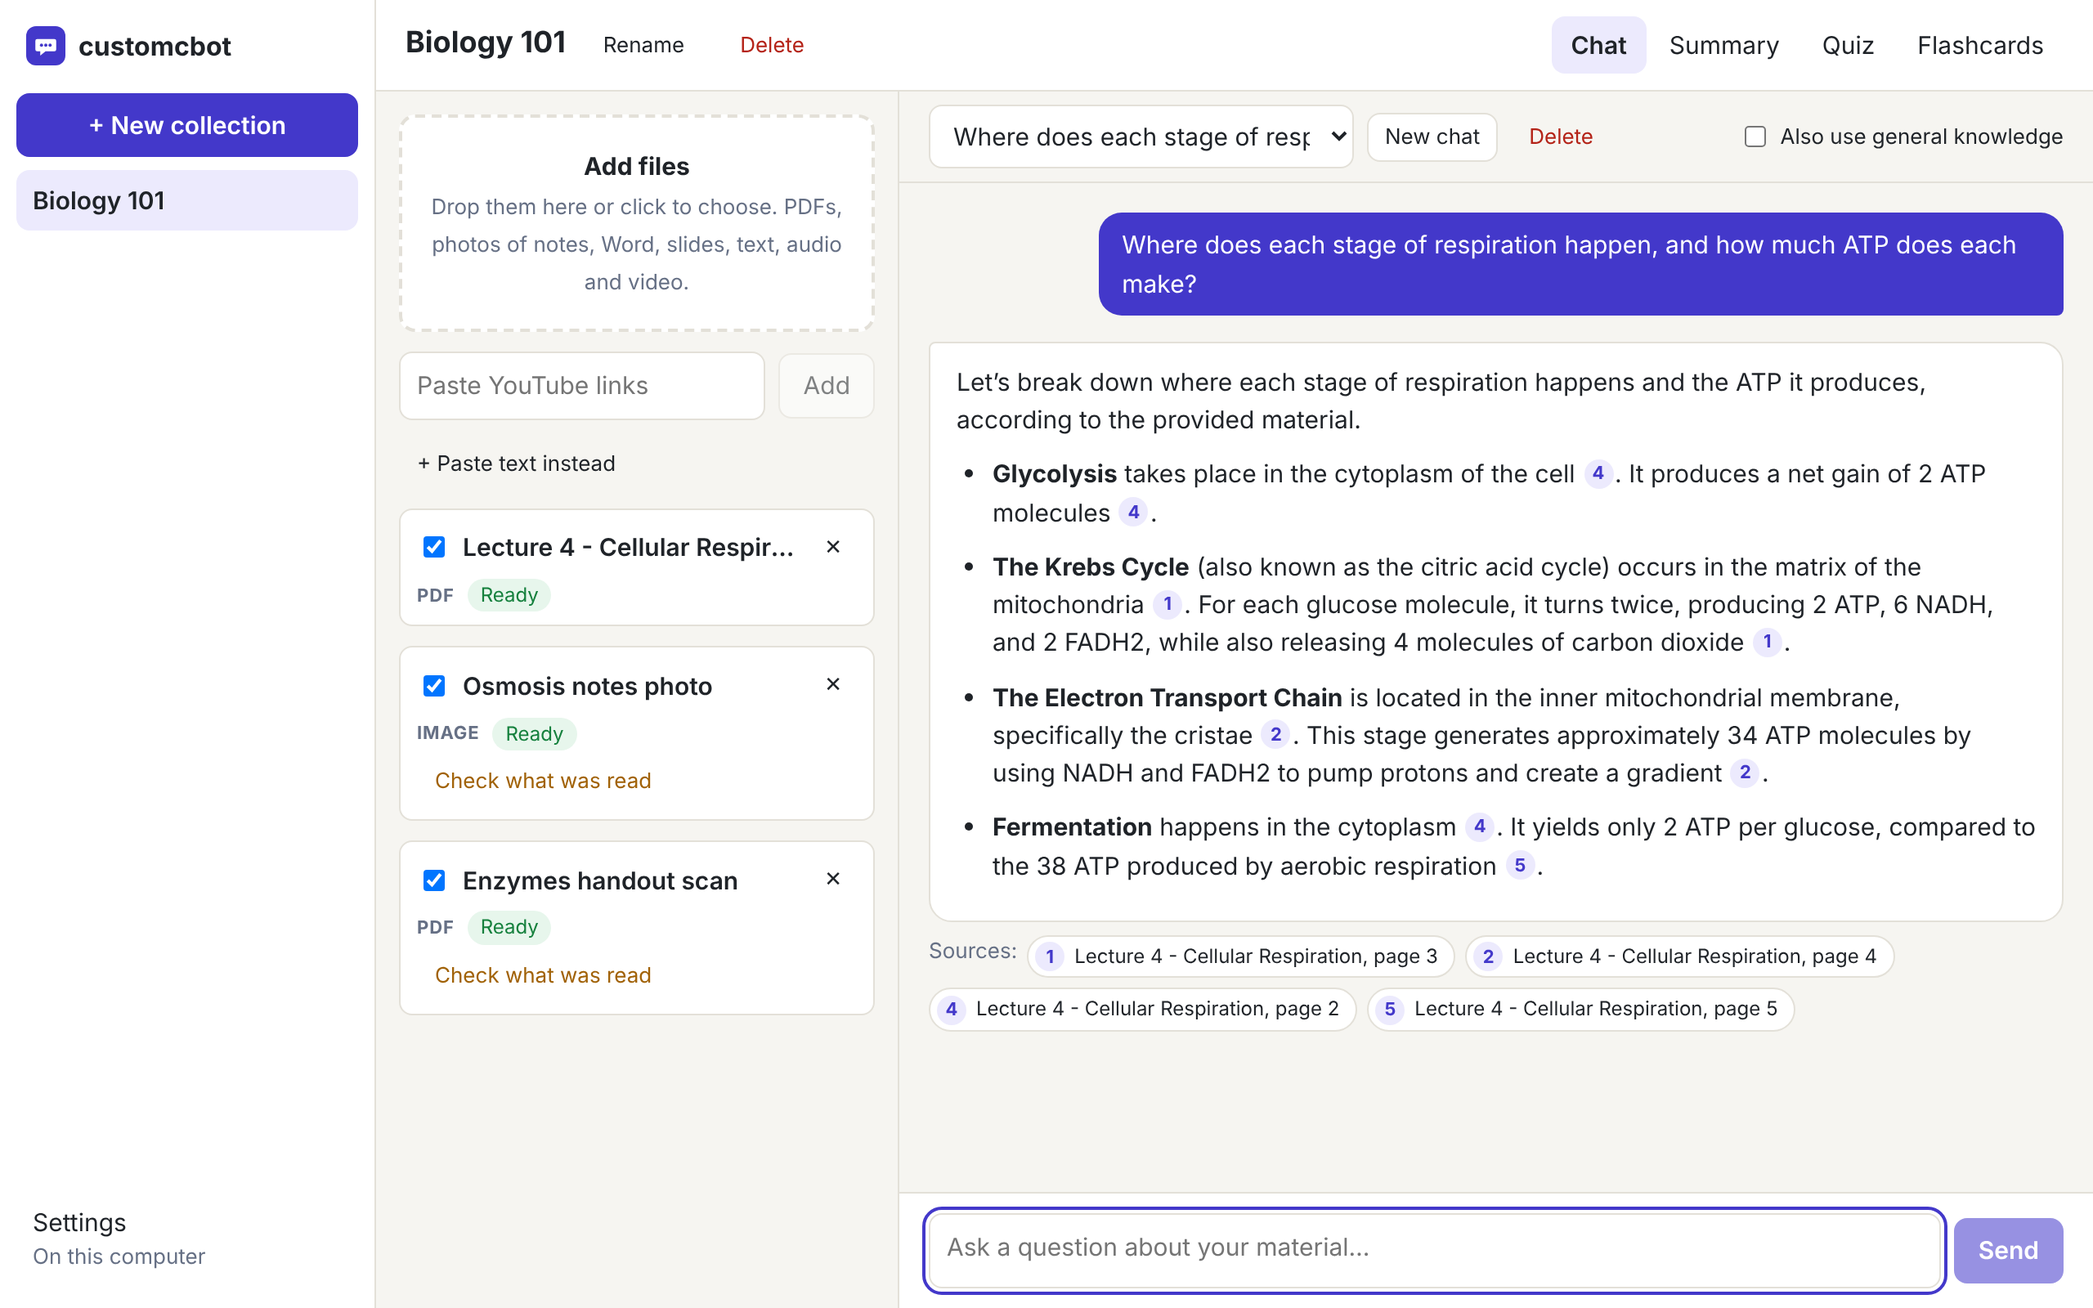
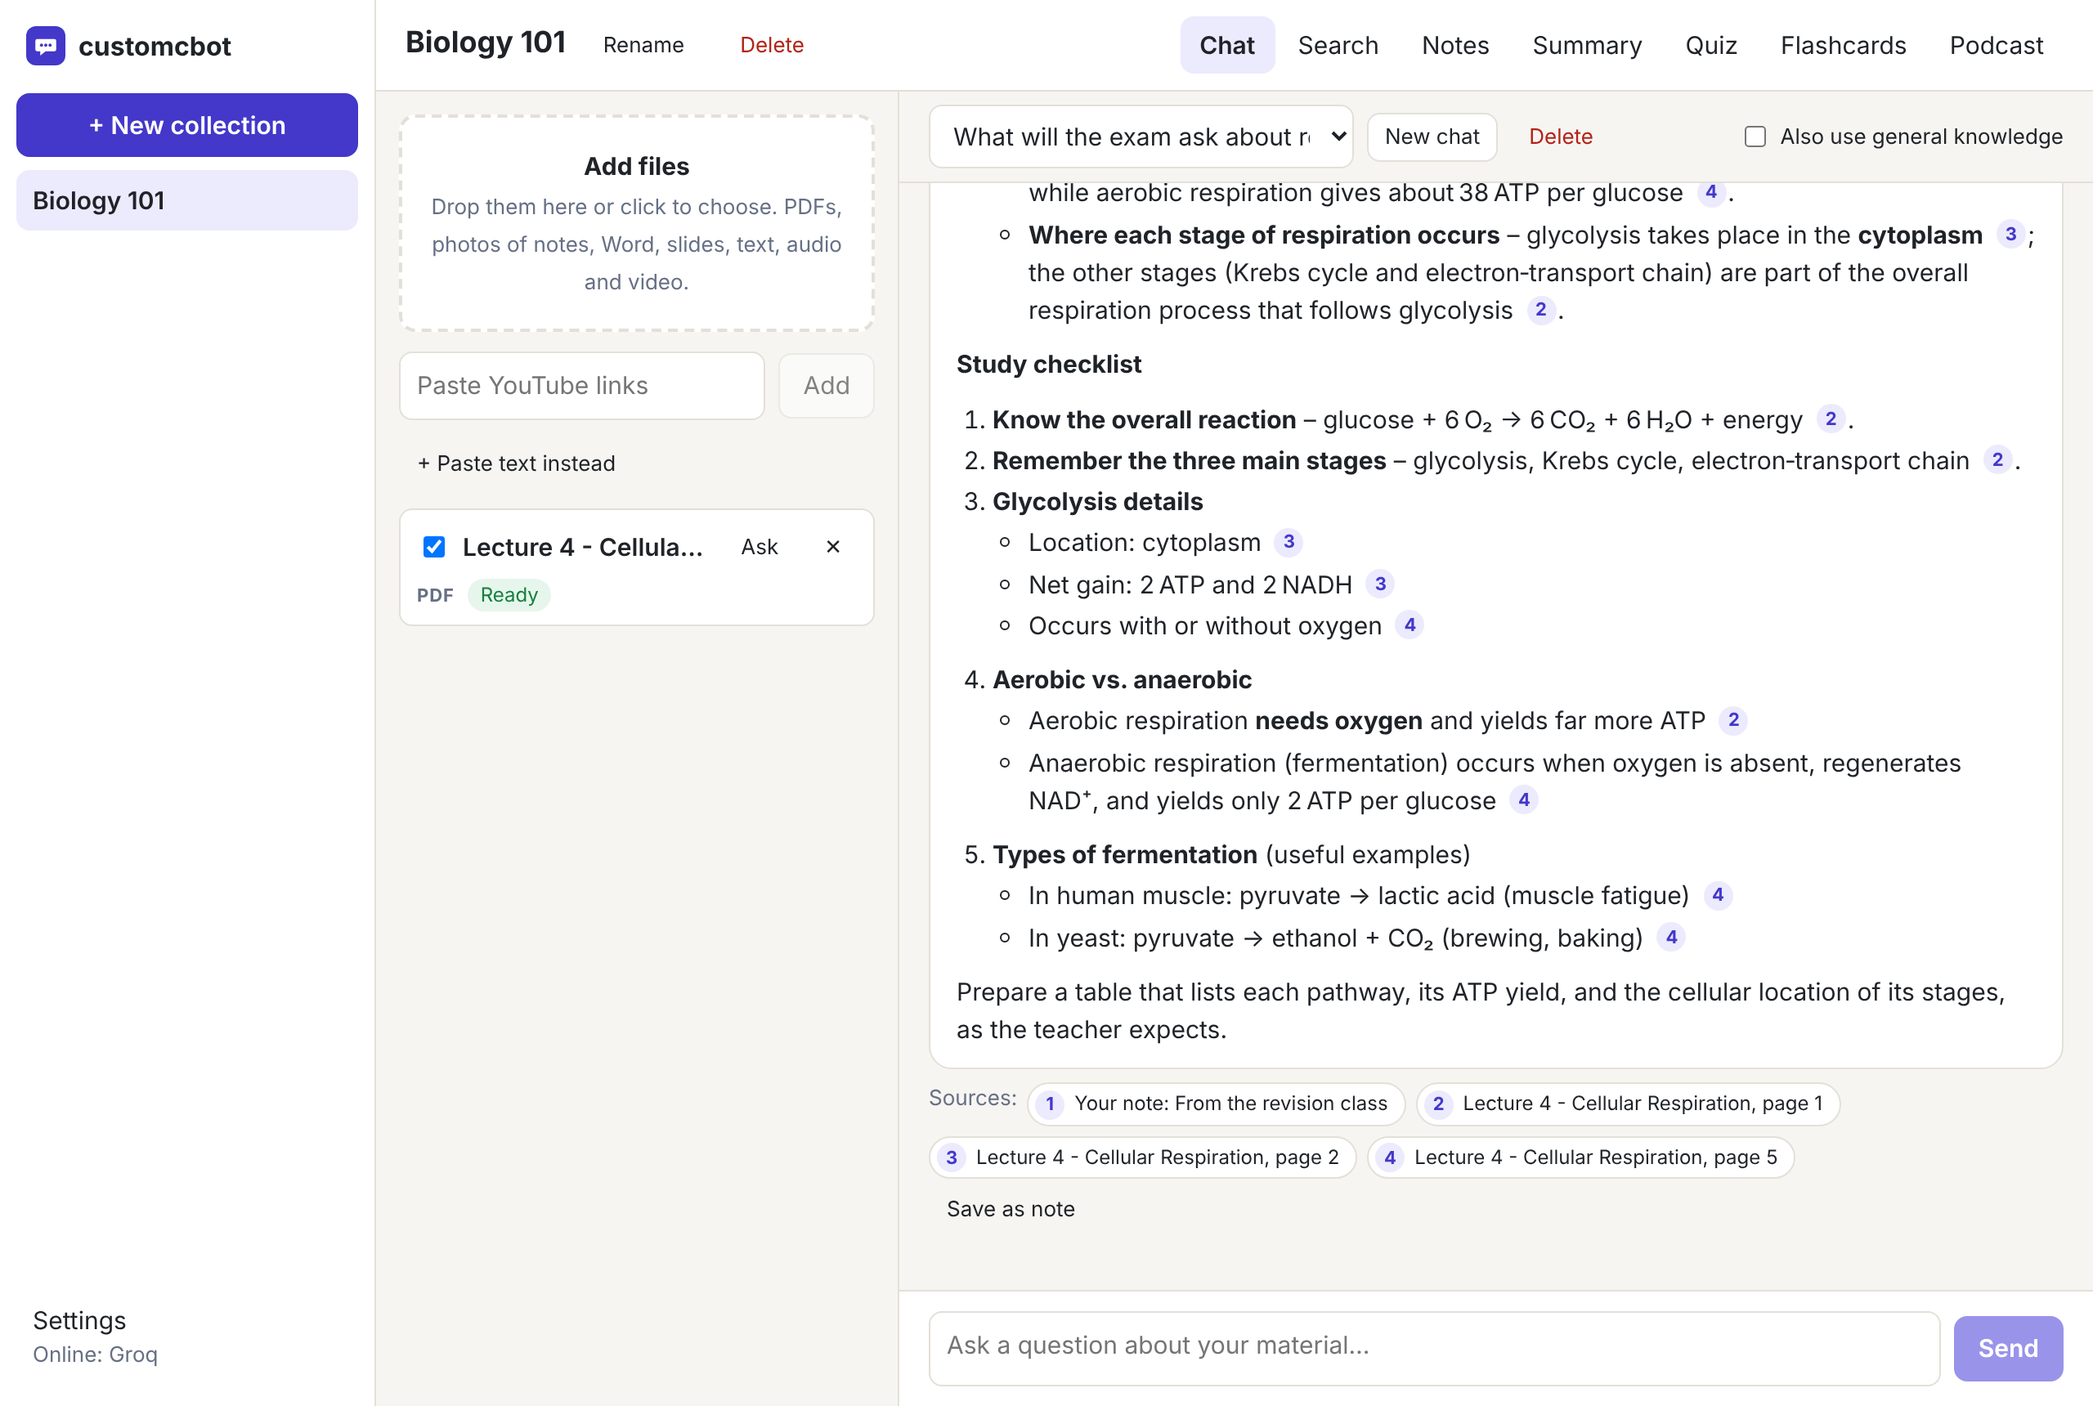
Document the new features, and add a way to recover a forgotten password
- README: the new features, fresh screenshots (chat, notes, a task
  result, Ask in depth, a podcast, services and models), privacy notes
  for podcasts, keys and the password, and credit to open-notebook.
- User guide: saving answers, asking about one source, the Search, Notes
  and Podcast tabs, tasks, several services with a model per kind of
  work, language and password.
- docs/ARCHITECTURE.md: how the layers map to open-notebook's and what is
  deliberately different.
- `--reset-password` removes a forgotten password; the data is kept.

Claude-Session: https://claude.ai/code/session_01VvAVspnGAJoobRY5boK8Ap

diff --git a/src/customcbot/cli.py b/src/customcbot/cli.py
@@ -34,6 +34,9 @@ def main() -> None:
     parser.add_argument("--port", type=int, default=8765)
     parser.add_argument("--no-browser", action="store_true", help="do not open the browser")
     parser.add_argument("--version", action="version", version=__version__)
+    parser.add_argument(
+        "--reset-password", action="store_true", help="remove the password set in Settings, then start"
+    )
     args = parser.parse_args()
 
     import uvicorn
@@ -41,6 +44,10 @@ def main() -> None:
     from .api.main import create_app
 
     app = create_app()
+    if args.reset_password:
+        # For a forgotten password. Whoever can start the app on this computer owns the data anyway.
+        config.set_many({"password_hash": None})
+        print("\n  The password has been removed.")
     port = _free_port(args.host, args.port)
     shown_host = "localhost" if args.host in ("127.0.0.1", "0.0.0.0") else args.host
     url = f"http://{shown_host}:{port}"

diff --git a/tests/test_auth.py b/tests/test_auth.py
@@ -83,3 +83,18 @@ def test_a_stolen_cookie_from_an_old_password_is_useless(client):
     old = auth.session_token()
     set_password(client, "second-one", current="first-one")
     assert not auth.signed_in(old) and auth.signed_in(auth.session_token())
+
+
+def test_a_forgotten_password_can_be_removed_from_the_command_line(client, monkeypatch):
+    import sys
+
+    import uvicorn
+
+    from customcbot import cli
+
+    set_password(client, "long-forgotten")
+    assert auth.required()
+    monkeypatch.setattr(uvicorn, "run", lambda *args, **kwargs: None)  # do not actually serve
+    monkeypatch.setattr(sys, "argv", ["customcbot", "--reset-password", "--no-browser"])
+    cli.main()
+    assert not auth.required()

diff --git a/docs/GUIDE.md b/docs/GUIDE.md
@@ -160,6 +160,24 @@ Open the **Chat** tab, type your question in the box at the bottom, and press En
 
 The AI can still make mistakes. For anything important, open the citation and check.
 
+### Keep an answer, or ask about one source
+
+- **Save as note** under an answer copies it into the **Notes** tab, titled with your question.
+- **Ask** next to a source on the left opens a chat that looks only in that source. A short source is read whole, so nothing in it is missed.
+
+### Search tab
+
+- **Find passages** looks through your sources, your notes and the results in the Summary tab. Choose **Words and meaning**, **Exact words only** or **Similar meaning only**, and tick what to look in. Click a result to read the passage.
+- **Ask in depth** is for a question that needs more than one passage, such as a comparison. The AI plans a few searches, takes notes from each (open a step to read them), then writes one answer with numbered sources. It is slower than Chat. With the Lite local model it does a single search.
+
+![An answer built from several searches](ask.png)
+
+### Notes tab
+
+**New note** opens an editor; Markdown works (`# heading`, `- list`, `**bold**`). A note without a title is named after its first line. Notes are searched together with your sources, so answers in Chat can use them and cite them as "Your note: …". Answers and results you saved are marked **saved answer**.
+
+![Notes](notes.png)
+
 ## 6. Summaries, quizzes and flashcards
 
 All three are made from the sources ticked on the left. They run in the background, so you can keep using the other tabs while you wait.
@@ -167,9 +185,10 @@ All three are made from the sources ticked on the left. They run in the backgrou
 ### Summary tab
 
 - **Write overview** writes one study guide covering all your sources: an overview, key ideas, important terms and questions to test yourself.
-- Under **By source**, **Summarise** writes a study guide for a single source. **Show study guide** opens it again later.
+- Under **By source**, pick a task for a source and press **Make**. Five tasks are ready: **Study guide**, **Key points**, **Glossary**, **Revision questions** and **Explain it simply**. Click a result's name to open it. **Save as note** copies it into your notes; **Delete** removes it.
+- **Edit tasks** lets you change the wording of a task, put a built-in one back to its original wording, add your own (for example "List every date in order with what happened"), or tick **Do this by itself for every new source**.
 
-![A study guide](summary.png)
+![A glossary made from one source](summary.png)
 
 ### Quiz tab
 
@@ -192,6 +211,20 @@ Cards you know come back after longer and longer gaps. Cards you miss come back 
 
 ![A flashcard](flashcards.png)
 
+### Podcast tab
+
+Turns your material into a spoken episode you can listen to.
+
+1. Choose a **Kind of episode**: **Study recap** (two voices talk through the key ideas), **Quick overview** (one voice, shorter) or **Exam drill** (questions and answers).
+2. Optionally type what to focus on, then press **Make episode**.
+3. When it is ready, press play, **Download MP3**, or **Read the script**.
+
+The first episode downloads the voices (about 350 MB, once). After that an episode of about four minutes takes one to two minutes with an online model, and around five minutes with a local model on a laptop. The script is written by the AI you chose; the voices run on your computer, so no audio is sent anywhere.
+
+**Kinds and voices** lets you change who speaks (one to four speakers, each with a name, a voice and a short description) and what an episode should be like. The English voices are the best tested; Spanish, French, Hindi, Italian and Portuguese voices are included.
+
+![A podcast episode with its script](podcast.png)
+
 ## 7. Change the model or switch between local and online
 
 Click **Settings** at the bottom left. The line under it always shows where answers currently come from.
@@ -201,6 +234,17 @@ Click **Settings** at the bottom left. The line under it always shows where answ
 - **Speech-to-text quality:** Fastest, Balanced or Most accurate, for videos without captions and audio files.
 
 Your collections and sources are unaffected by switching.
+
+### Several services, and a model for each kind of work
+
+**Services and models** in Settings is for when one model is not enough. Under **Which model does what** you can give different work to different models: answering questions; summaries, quizzes and flashcards; reading handwriting and scanned pages. A common choice is a fast model for chat and a larger one for quizzes, or an online model that reads images next to a local one for everything else. **Add a service** saves another service and its key; **Add a model** lists what that service offers and tests the one you pick before saving it. Keys are stored encrypted and are never shown again.
+
+![A model for each kind of work](models.png)
+
+### Language and password
+
+- **Language of the interface:** English, Español, Français, Português, हिन्दी or 中文. The translations were made by machine and have not been checked by native speakers. What the AI writes follows the language of your material and your questions, not this setting.
+- **Password:** not needed while only this computer can open the app. If you start it for other devices (`--host 0.0.0.0`), press **Set a password**; every device then has to sign in. If you forget it, stop the app and start it once with `--reset-password`.
 
 ## 8. Your data: where it is, backup, removal
 

diff --git a/README.md b/README.md
@@ -19,13 +19,21 @@ You choose on first start and can switch at any time.
 - **Quizzes.** Multiple choice or written answers, drawn from across your material, with explanations.
 - **Flashcards.** Written for you, with spaced repetition so the cards you miss come back sooner.
 - **Collections.** Keep each subject or project separate: 5 PDFs and 10 lectures for one course, a manual and some notes for another.
+- **Notes.** Write your own, or keep an answer with "Save as note". Answers can use and cite your notes.
+- **Tasks on a source.** Key points, a glossary, revision questions or a plain-language explanation of any source, or tasks you write yourself.
+- **Search and Ask in depth.** Find passages by exact words or by meaning. For a harder question, the AI plans several searches, takes notes from each and writes one answer.
+- **Podcasts.** Turn your material into a spoken episode with one to four voices, to listen to instead of reading. The voices run on your computer.
+- **Several AI services at once.** Use one model for chat, another for quizzes and summaries, and a third to read handwriting.
+- **Six interface languages**, and an optional password if you open the app to other devices.
 
 It is built for studying but works for anything you want to ask questions about: manuals, reports, meeting recordings, research papers.
 
 | | |
 |---|---|
 | ![A quiz question with its explanation](docs/quiz.png) | ![A flashcard](docs/flashcards.png) |
-| ![A study guide written from a collection](docs/summary.png) | ![The text read from a photographed note](docs/extracted-text.png) |
+| ![A glossary made from one source](docs/summary.png) | ![The text read from a photographed note](docs/extracted-text.png) |
+| ![An answer built from several searches](docs/ask.png) | ![A podcast episode with its script](docs/podcast.png) |
+| ![Notes, including a saved answer](docs/notes.png) | ![A model for each kind of work](docs/models.png) |
 
 ## Get started
 
@@ -127,6 +135,10 @@ Small models running on a home computer are slower and less capable than large o
 
 **With an online service**, the question you ask and the passages found for it are also sent to the service you chose, each time you chat or make a summary, quiz or flashcards. Your key is stored in the data folder on your computer and is never shown again in the browser.
 
+**Podcast voices** run on your computer in both cases: the script is written by the AI you chose, but the speech is made locally and no audio is sent anywhere.
+
+**Saved keys** are encrypted in the data folder. **A password** is optional; set one in Settings if other devices can reach the app.
+
 There is no account and no tracking in customcbot itself. The data folder is shown in the terminal when the app starts. Delete that folder to remove everything.
 
 ## Troubleshooting
@@ -140,6 +152,8 @@ There is no account and no tracking in customcbot itself. The data folder is sho
 | "The free allowance ... is used up for now" | Wait a while, pick another model in Settings, or switch to a local model. |
 | A YouTube link fails | Check the video is public. If you are on a VPN, turn it off and press "Try again". |
 | `start.sh` says "permission denied" | Run `chmod +x start.sh` once, then try again. |
+| "The voices could not be set up" | The first podcast downloads the voices (about 350 MB). Check your connection and press Make episode again. |
+| You forgot the password | Stop the app and start it once with `--reset-password` (for example `./start.sh --reset-password`). That removes the password; your data is kept. |
 
 ## How it works
 
@@ -157,8 +171,11 @@ Summaries, quizzes and flashcards use the same passages.
 | Language and vision model | [Ollama](https://ollama.com) running Gemma 3, or any service that speaks the OpenAI chat API |
 | Search by meaning | [fastembed](https://github.com/qdrant/fastembed) with a multilingual MiniLM model, on the CPU |
 | Storage and keyword search | One SQLite file |
-| PDFs, OCR, speech | pypdfium2, RapidOCR, faster-whisper |
+| PDFs, OCR, speech to text | pypdfium2, RapidOCR, faster-whisper |
+| Podcast voices | [Kokoro](https://huggingface.co/hexgrad/Kokoro-82M) through kokoro-onnx, on the CPU |
 | Server and interface | FastAPI; Preact with no build step |
+
+The way the code is organised (routes, domain models, numbered migrations, model provisioning per job, workflows, background commands, prompt templates) follows [open-notebook](https://github.com/lfnovo/open-notebook), as do notes, transformations, Ask and podcasts. customcbot rebuilds those ideas on a lighter stack so that it starts with one double-click and runs on a modest computer; no code was copied. See [docs/ARCHITECTURE.md](docs/ARCHITECTURE.md).
 
 ## For developers
 
@@ -212,4 +229,4 @@ customcbot is a single-user app with no login. Do not put it on the public inter
 
 ## Licence
 
-MIT. See [LICENSE](LICENSE). Bundled browser libraries are listed in [`src/customcbot/web/vendor/README.md`](src/customcbot/web/vendor/README.md).
+MIT. See [LICENSE](LICENSE). The podcast voices depend on espeak-ng, which is installed as a separate package under the GPL-3.0 licence. Bundled browser libraries are listed in [`src/customcbot/web/vendor/README.md`](src/customcbot/web/vendor/README.md).

diff --git a/docs/ARCHITECTURE.md b/docs/ARCHITECTURE.md
@@ -1,0 +1,59 @@
+# How customcbot is built
+
+The layers follow [open-notebook](https://github.com/lfnovo/open-notebook). The stack is lighter, so that the app starts with one double-click and runs on a modest computer.
+
+| open-notebook | customcbot |
+|---|---|
+| Next.js frontend | `web/`: Preact with no build step, served by the same process |
+| FastAPI app, one router per resource | the same: `api/main.py`, `api/routers/` |
+| SurrealDB (documents, full-text and vector search) | one SQLite file: tables, FTS5 for words, stored vectors for meaning |
+| Separate worker process with `@command` jobs | `commands/`: the same decorator and retry rules, run on one thread inside the app |
+| LangGraph workflows | `graphs/`: the same workflows as plain Python steps |
+| Esperanto for model providers | `ai/`: a client for Ollama and one for any OpenAI-compatible service |
+| Jinja prompt templates | the same: `prompts/` |
+| Docker Compose, supervisord | `start.bat` / `start.sh`; Docker is optional |
+
+## One process
+
+```
+browser ── web/ (static files)
+   │
+   ▼
+api/routers ──► domain models ──► database/repository ──► SQLite file
+   │                 ▲
+   │ slow work       │
+   ▼                 │
+commands (worker thread) ──► graphs ──► ai/provision ──► Ollama or an online service
+                                  └──► ingest, podcasts (local OCR, speech to text, voices)
+```
+
+- **A request** reaches a router, which calls domain models and returns. Typed errors (`exceptions.py`) become replies in one place.
+- **Slow work** (reading a source, a quiz, a task on a source, a podcast) is submitted as a command. The route returns the job at once and the browser asks for its progress. One command runs at a time, on purpose: two heavy jobs at once make a small computer slower at both.
+- **Chat and Ask** run inside the request and stream their answer as events.
+
+## Stored objects
+
+A **collection** (open-notebook's notebook) holds **sources**, **notes**, chats, quizzes, flashcards and podcast episodes. A **transformation** is a task carried out on one source; what it writes is a **source insight**. Text is cut into **passages** (`chunks`), each belonging to a source, a note or an insight, and indexed twice: by words and by meaning.
+
+Models are chosen through **credentials** (a saved service, key encrypted), **models** (a model of that service) and one record of **default models** saying which model does which job. Code asks for a model by job: `services.model("chat")`.
+
+## Workflows (`graphs/`)
+
+| Workflow | Steps |
+|---|---|
+| `source` | read the file or link, split into passages, embed, index |
+| `chat` | resolve a follow-up, search, answer with numbered sources, check the citations |
+| `ask` | plan a few searches, take notes from each, write one answer; passages are numbered once across all searches |
+| `transformation` | read a source whole, or reduce a long one to notes first, then carry out the task |
+| `summary`, `quiz`, `flashcards` | map over passages, then combine |
+| `podcasts.generate` | collect material, outline, script part by part, record each line, join into an MP3 |
+
+## Changing the tables
+
+Add a numbered file to `database/migrations/`: `.sql`, or `.py` with an `upgrade(conn)` function when data has to be moved. Files run in order at start, once per data folder. Never edit one that has shipped.
+
+## What is deliberately different
+
+- The code is synchronous. SQLite and the local model clients are, and FastAPI runs plain functions on threads.
+- Chat cites sources and notes, but not insights: an insight restates a source, and the page itself is the better citation.
+- Podcast voices are local only. No online speech service is wired in.
